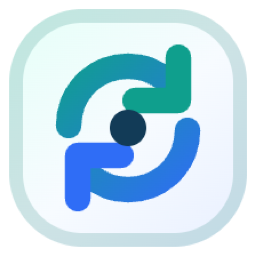
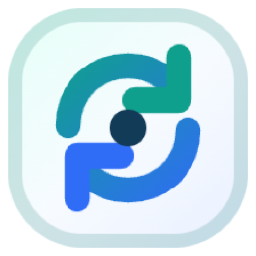
release v0.0.3：移动端样式优化、demo 数据加载时序修复
- 移动端全面紧凑：历史记录/指标/卡片/设置行间距压缩
- 操作按钮 40→36px，总览卡片间距收紧
- History demo 数据仅在 dev 模式且 API 无数据时注入，避免加载中闪现
- 页面标题栏 sticky 固定顶部不随内容滚动
- 更新应用图标

AI-Coding: true
AI-Tool: TophantAI

diff --git a/frontend/src/styles.css b/frontend/src/styles.css
@@ -207,17 +207,15 @@ h3 {
   overflow: auto;
 }
 .page {
-  padding: 0 20px 20px;
+  padding: 20px;
   min-height: 100%;
-  display: flex;
-  flex-direction: column;
 }
 .page-toolbar {
   display: flex;
   align-items: center;
   justify-content: space-between;
   gap: 16px;
-  margin: 0 -20px;
+  margin: -20px -20px 20px;
   padding: 0 20px;
   min-height: 56px;
   border-radius: var(--radius) var(--radius) 0 0;
@@ -226,7 +224,6 @@ h3 {
   top: 0;
   z-index: 10;
   background: var(--surface);
-  flex-shrink: 0;
 }
 .page-toolbar:has(.page-tabs) {
   border-bottom: 1px solid var(--line);
@@ -345,7 +342,7 @@ h3 {
   flex: 1;
   min-height: 0;
   overflow: auto;
-  padding: 20px;
+  padding-top: 4px;
 }
 .history-view,
 .execution-view {
@@ -918,14 +915,14 @@ body .semi-modal-mask {
   color: var(--text-tertiary);
 }
 .mobile-record {
-  padding: 18px 0;
+  padding: 10px 0;
   border-bottom: 1px solid var(--line);
 }
 .record-title {
   display: flex;
   align-items: flex-start;
   justify-content: space-between;
-  gap: 12px;
+  gap: 8px;
 }
 .record-title > strong {
   min-width: 0;
@@ -937,8 +934,8 @@ body .semi-modal-mask {
   display: flex;
   align-items: center;
   justify-content: space-between;
-  gap: 12px;
-  margin-top: 12px;
+  gap: 8px;
+  margin-top: 6px;
 }
 .file-record summary {
   list-style: none;
@@ -1003,7 +1000,7 @@ body .semi-modal-mask {
   }
   .page-toolbar {
     flex-wrap: wrap;
-    margin: 0 -16px;
+    margin: -20px -16px 20px;
     padding: 12px 16px;
     gap: 8px;
   }
@@ -1046,8 +1043,8 @@ body .semi-modal-mask {
     min-height: 36px;
   }
   .row-actions .semi-button {
-    width: 40px;
-    height: 40px;
+    width: 36px;
+    height: 36px;
   }
   .task-page {
     min-height: 0;
@@ -1077,7 +1074,7 @@ body .semi-modal-mask {
   .engine-item,
   .notification-item {
     flex-wrap: wrap;
-    gap: 12px;
+    gap: 8px;
   }
   .item-list .row-actions {
     margin-left: auto;
@@ -1138,11 +1135,11 @@ body .semi-modal-mask {
   }
   .execution-header {
     flex-wrap: wrap;
-    gap: 12px;
+    gap: 8px;
   }
   .execution-metrics {
     grid-template-columns: repeat(2, minmax(0, 1fr));
-    row-gap: 24px;
+    row-gap: 8px;
   }
   .desktop-data {
     display: none;
@@ -1302,7 +1299,7 @@ body .semi-modal-mask {
   gap: 12px;
 }
 .settings-page > .page-toolbar {
-  margin-bottom: 0;
+  margin-bottom: 8px;
 }
 .settings-card-head {
   display: flex;

diff --git a/frontend/src/pages/TaskExecution.tsx b/frontend/src/pages/TaskExecution.tsx
@@ -255,8 +255,9 @@ export function History({ jobId }: { jobId: number }) {
   ] : [];
 
   const realRows = resource.data?.dataList || [];
-  const rows = demo && realRows.length === 0 ? demoRecords : realRows;
-  const totalCount = demo && !resource.data?.count ? demoRecords.length : (resource.data?.count || 0);
+  const showDemo = demo && !resource.loading && !resource.data;
+  const rows = showDemo ? demoRecords : realRows;
+  const totalCount = showDemo ? demoRecords.length : (resource.data?.count || 0);
   const retry = (record: TaskRecord) =>
     void action.run(async () => {
       try {
